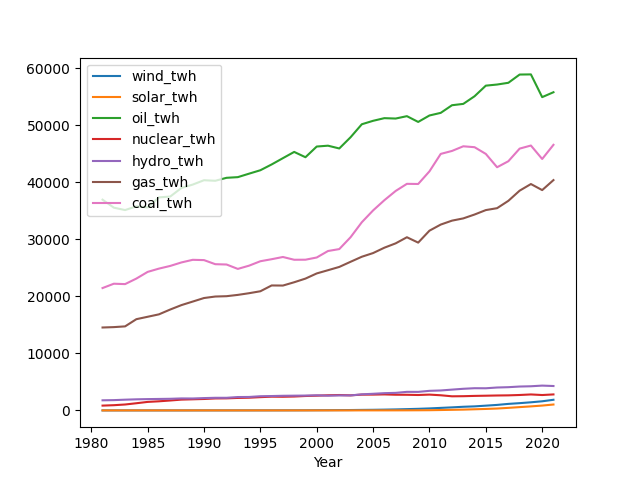
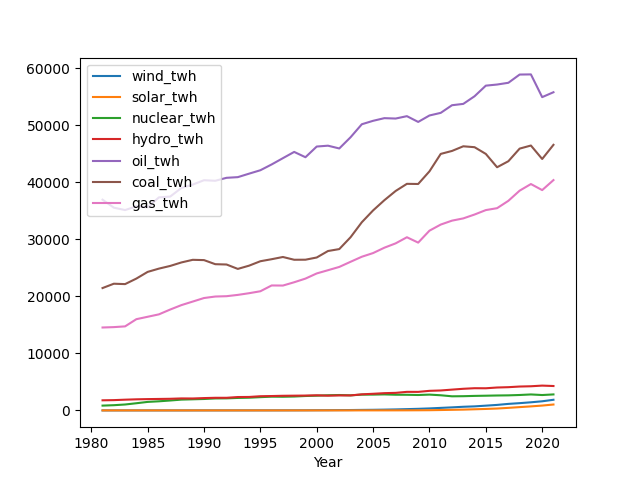
--

diff --git a/en/2019/05/energstats.md b/en/2019/05/energstats.md
@@ -82,18 +82,17 @@ Ej = Exajoules = 277.778 TWh
 
 ```python
 import pandas as pd
-
+pd.set_option('display.max_columns', None)
 df = pd.read_csv('bp-stats-review-2022-consolidated-dataset-panel-format.csv')
 df = df[df.Country == 'Total World']
 df = df.set_index('Year')
 df = df[df.index > 1980]
 df = df[['wind_twh','solar_twh','oilprod_kbd','nuclear_twh','hydro_twh','gasprod_ej','coalprod_ej']]
-
 df['oil_twh'] = df.oilprod_kbd * 365 * 1700 * 1000 / 1e9
 df['coal_twh'] = df.coalprod_ej * 277.778 
 df['gas_twh'] = df.gasprod_ej * 277.778
-df[['wind_twh','solar_twh','oil_twh','nuclear_twh','hydro_twh','gas_twh','coal_twh']].plot()
-plt.savefig('out.png')
+df[[x for x in df.columns if '_twh' in x]].plot()
+plt.savefig('energy-sources.png')
 print (df.tail(3))
 ```
 
